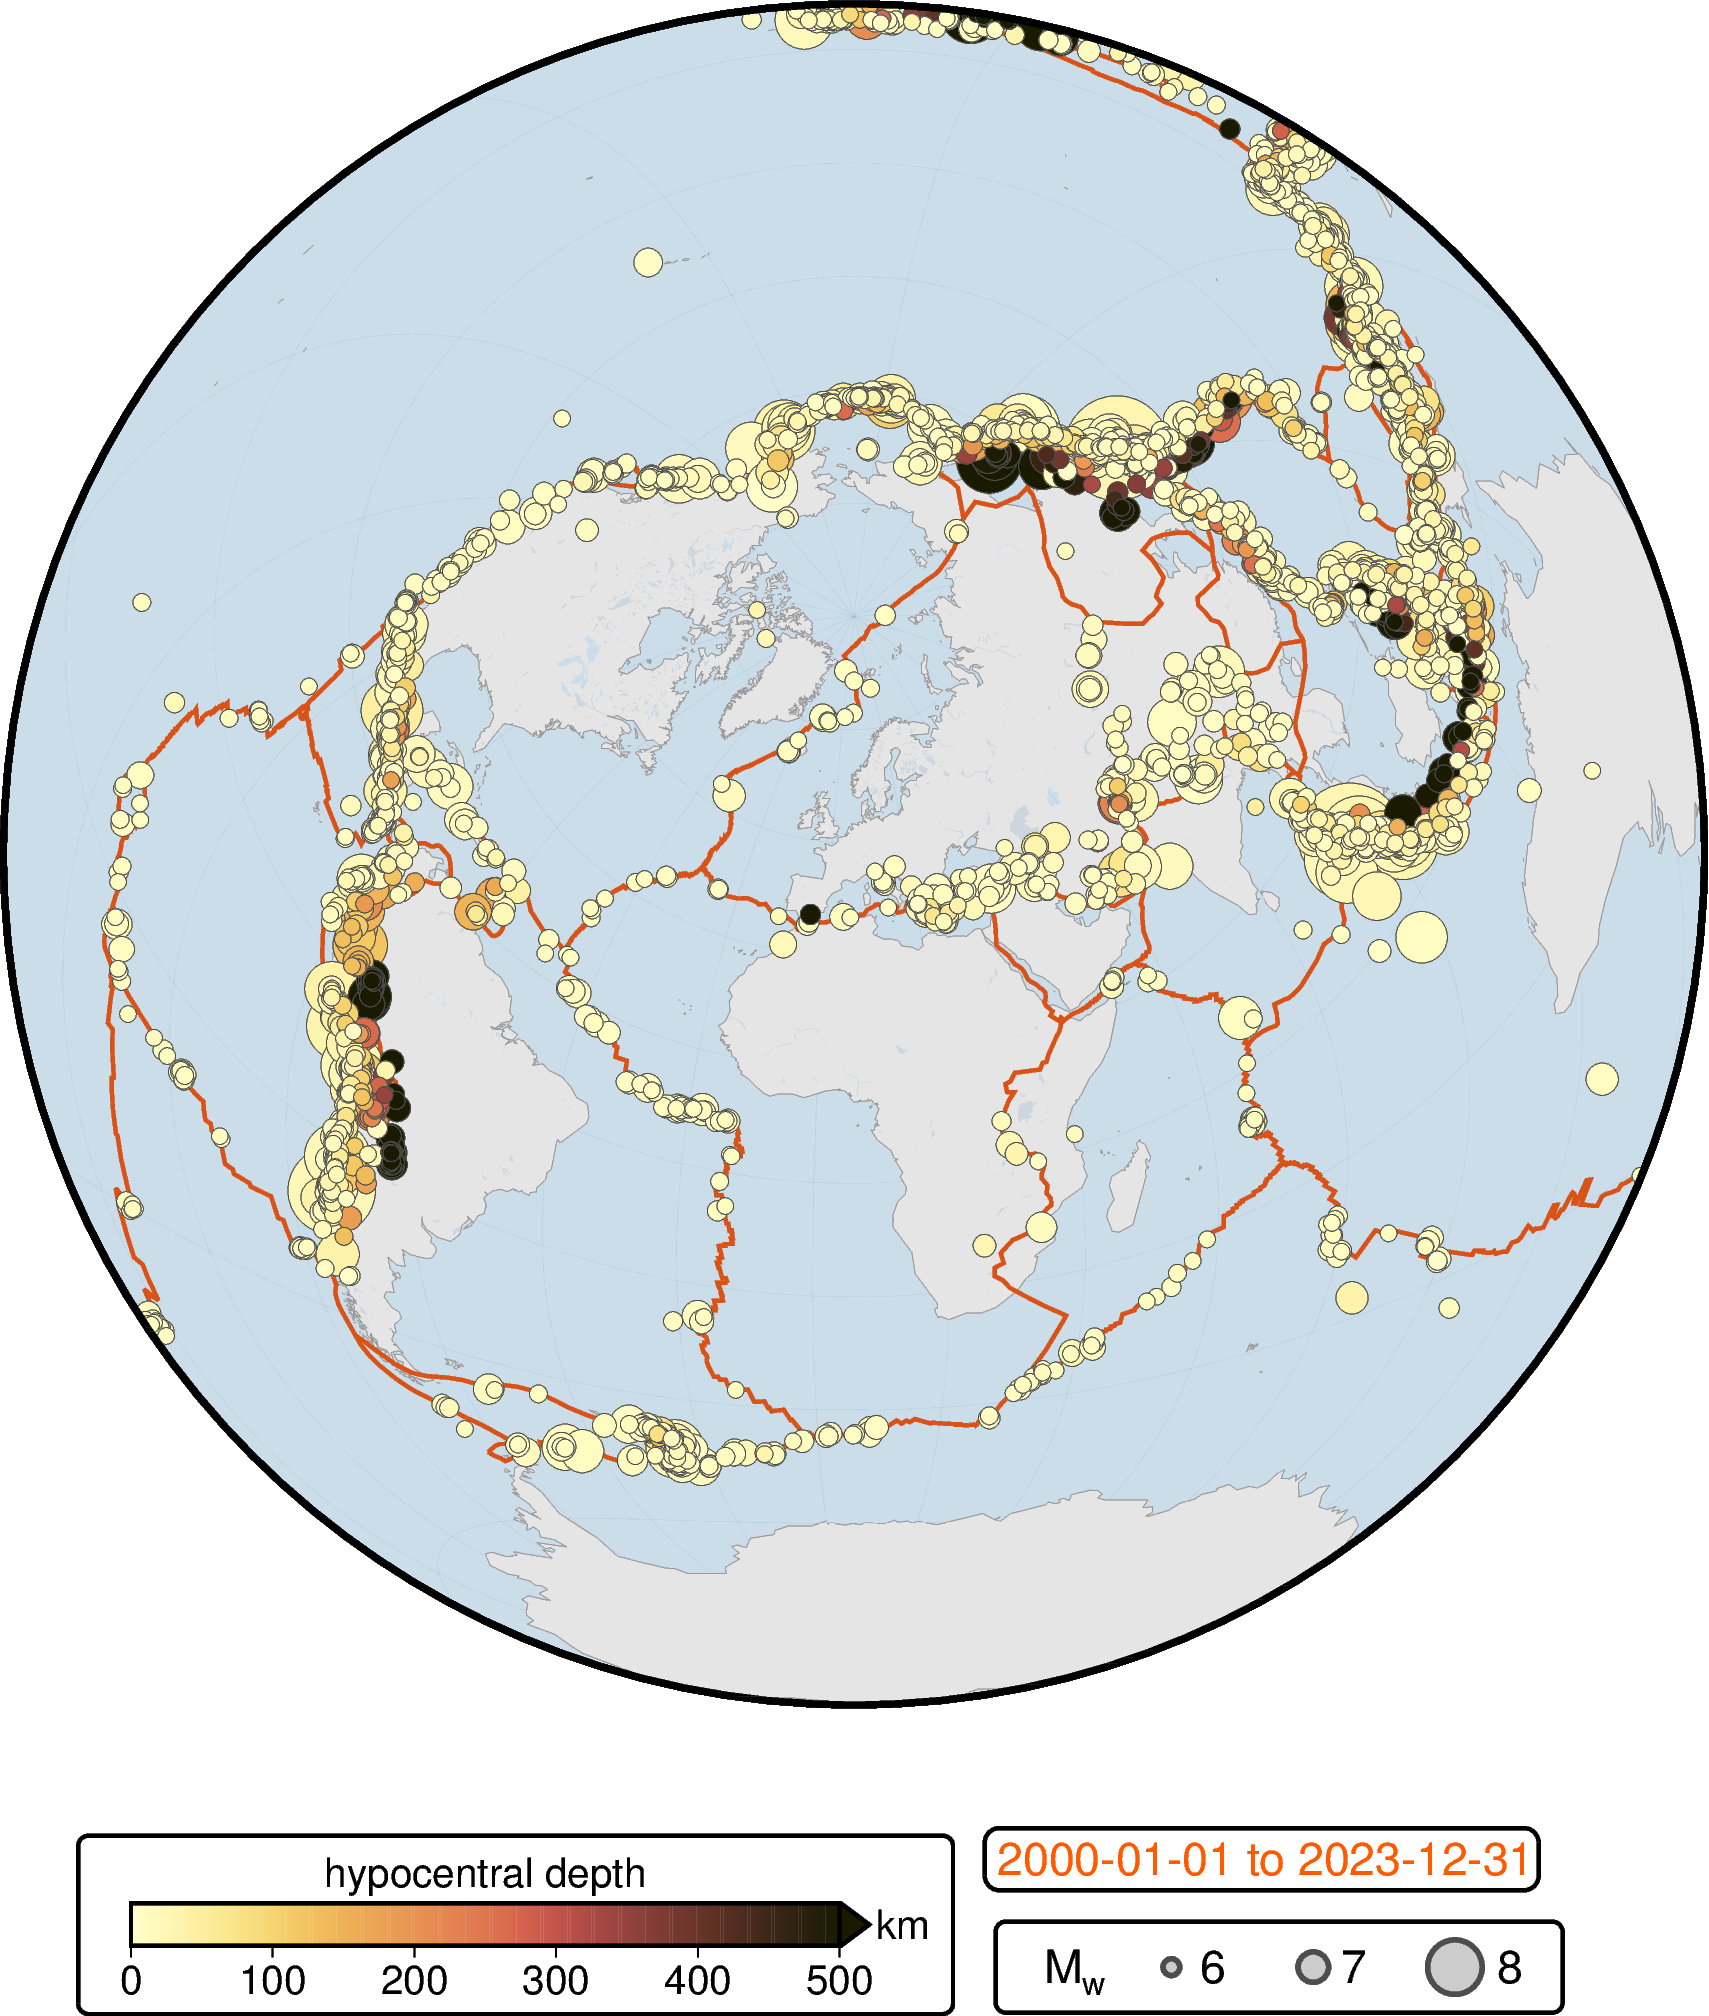
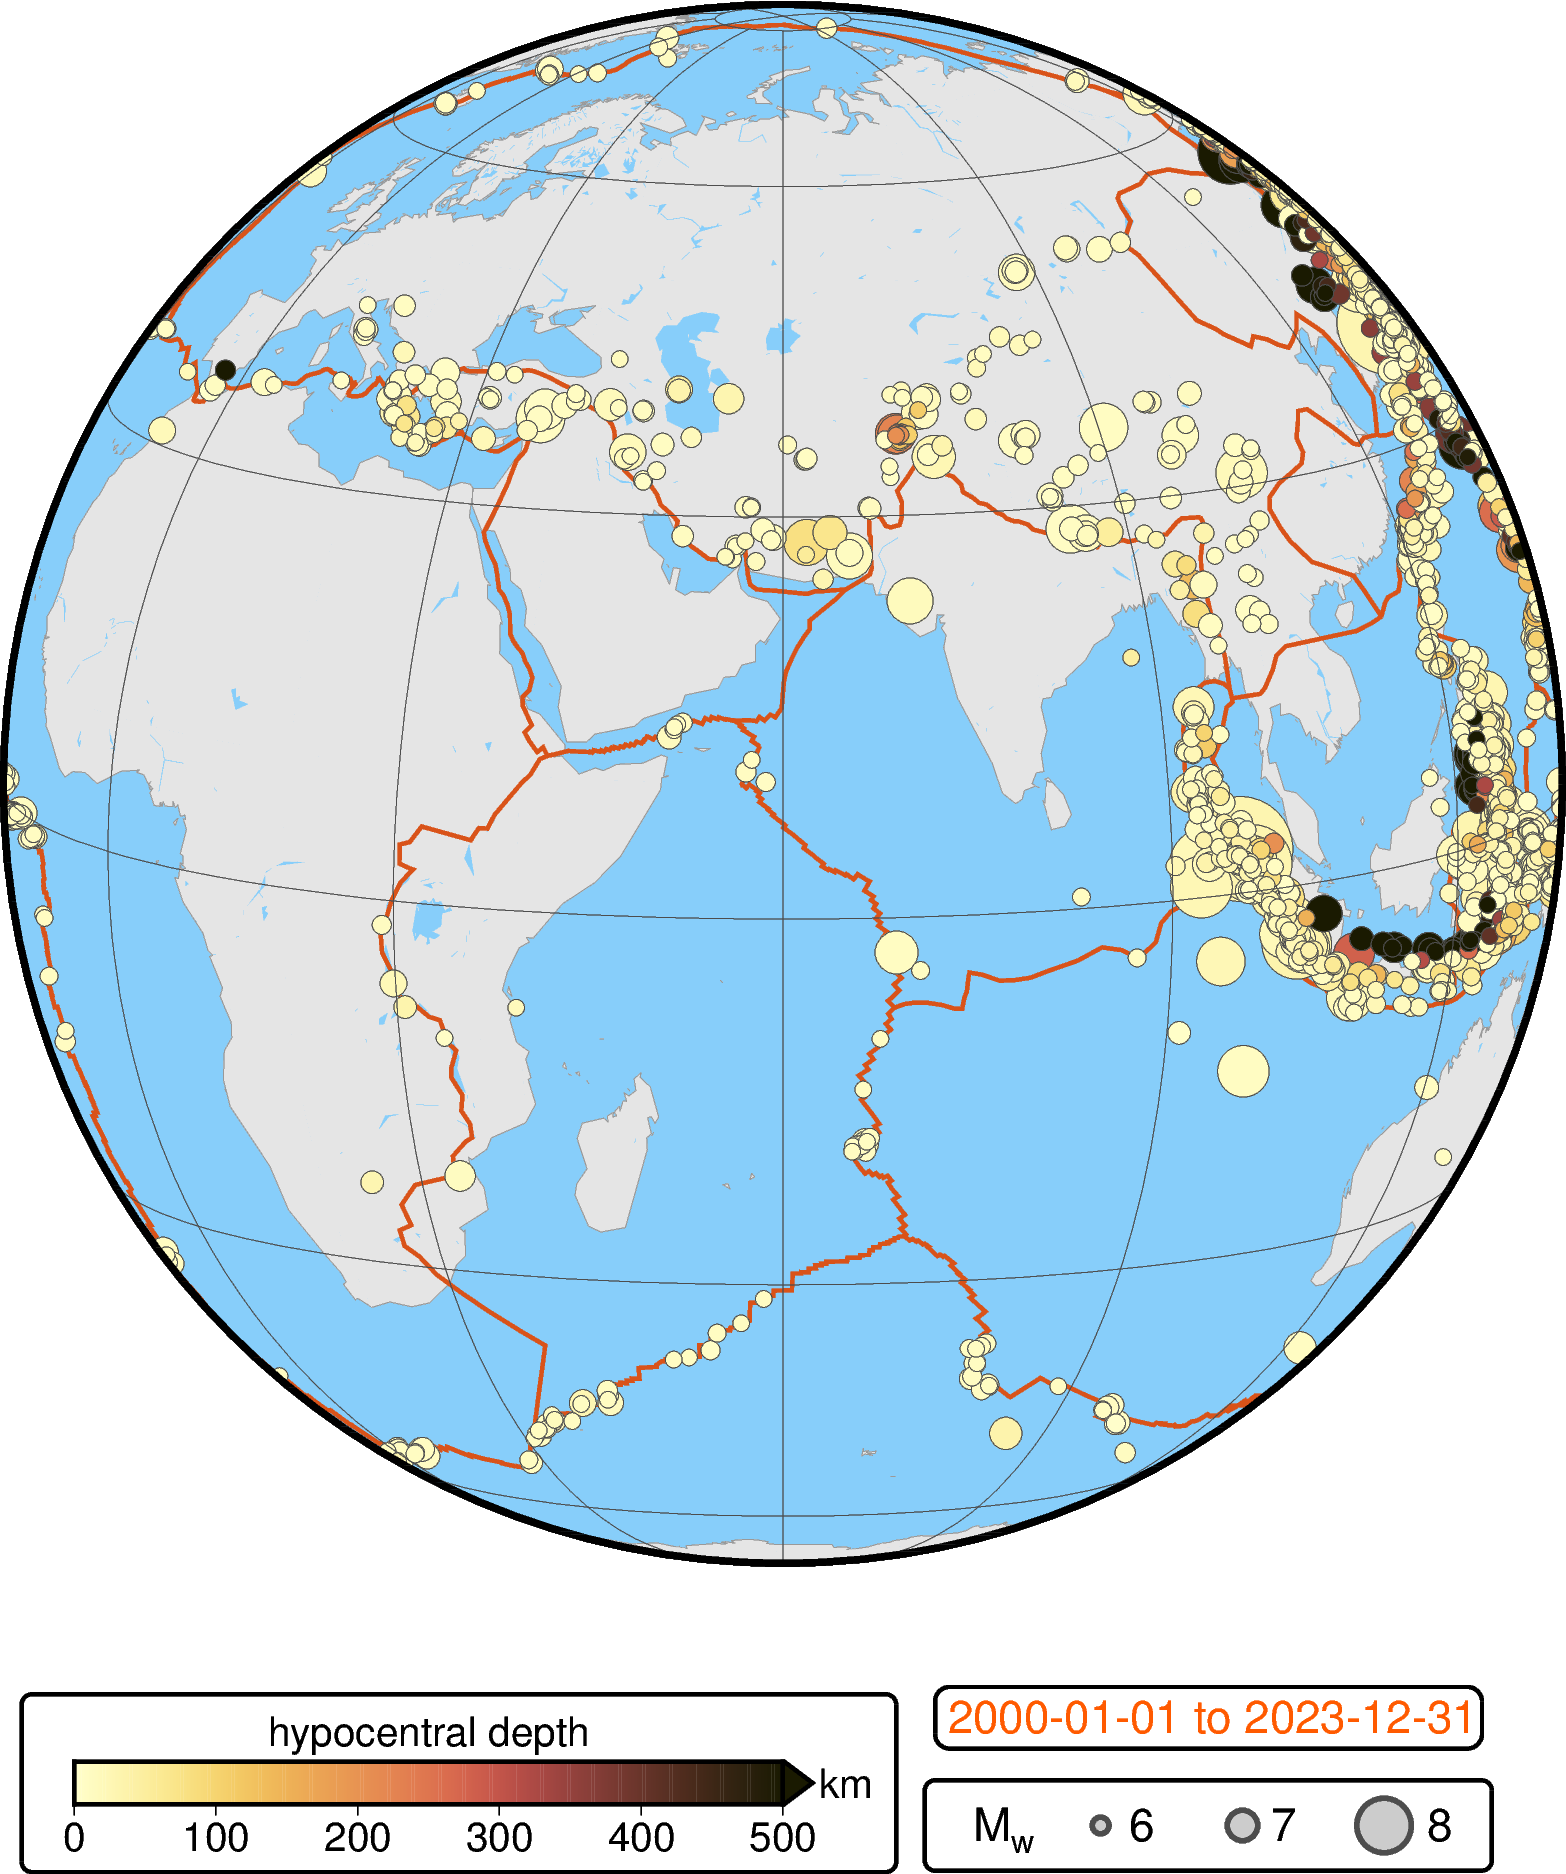
Include orthographic projection

diff --git a/005_global_seismicity/01_map/map_global_seismicity.py b/005_global_seismicity/01_map/map_global_seismicity.py
@@ -35,20 +35,22 @@ import pandas as pd
 # >>> Set for your needs <<<
 
 # Set projection of map
-proj = "rob"  ## "rob", "ortho"
-fig_size = 12
+proj = "ortho"  ## "rob" | "epi" | "ortho"
+fig_size = 11   # in centimeters
+# epicentral distance
 lon_center = 6  # degrees East
 lat_center = 48  # degrees North
 epi_dist = 150  # degrees
+# orthographic
+lon0 = 60  # degrees East
+lat0 = 10  # degrees North
 
 # Request earthquake data
 # >>> Only works with single quotation marks <<<
-start_year = 2000
-end_year = 2023
-start_date = str(start_year) + '-01-01'
-end_date = str(end_year) + '-12-31'
-min_magnitude = '6'
-max_magnitude = '10'
+start_date = '2000-01-01'
+end_date = '2023-12-31'
+min_mag_w = '6'  # magnitude, later filter regarding moment magnitude
+max_mag_w = '10'
 order_records = 'time-asc'  # 'magnitude'
 
 # -----------------------------------------------------------------------------
@@ -61,7 +63,7 @@ file_legend = "legend_gmt_magitude.txt"
 # Plotting
 color_highlight = "255/90/0"
 col_land = "gray90"
-col_water = "steelblue@85"
+col_water = "lightskyblue"
 col_pb = "216.750/82.875/24.990"
 col_sl = "gray60"
 box_standard = "+gwhite@30+p0.8p,black+r2p"
@@ -70,8 +72,13 @@ clearance_standard = "0.1c/0.1c+tO"
 match proj:
     case "rob":
         proj_used = f"N{fig_size}c"
+        frame_used = "af"
+    case "epi":
+        proj_used = f"E{lon_center}/{lat_center}/{epi_dist}/{fig_size}c"
+        frame_used = "af"
     case "ortho":
-        proj_used =f"E{lon_center}/{lat_center}/{epi_dist}/{fig_size}c"
+        proj_used = f"G{lon0}/{lat0}/{fig_size}c"
+        frame_used = "afg"
 
 
 # %%
@@ -80,28 +87,25 @@ match proj:
 # -----------------------------------------------------------------------------
 # Set up request
 # see https://earthquake.usgs.gov/fdsnws/event/1/
-# last access: 2023/11/20
+# last access: 2025/01/26
 url_usgs = 'https://earthquake.usgs.gov/fdsnws/event/1/query.csv'
 
 url_usgs_request = url_usgs + '?' + \
     '&'.join([
         'starttime=' + start_date + '%2000:00:00',
         'endtime=' + end_date + '%2000:00:00',
-        'minmagnitude=' + min_magnitude,
-        'maxmagnitude=' + max_magnitude,
+        'minmagnitude=' + min_mag_w,
+        'maxmagnitude=' + max_mag_w,
         'orderby=' + order_records,
     ])
 
-eq_catalog_name = f"global_seismicity_{start_date}to{end_date}_mw" + \
-                   f"{min_magnitude}to{max_magnitude}"
+eq_catalog_name = f"global_seismicity_{start_date}to{end_date}_mw{min_mag_w}to{max_mag_w}"
 
 # Download data into a pandas DataFrame
 data_eq_raw = pd.read_csv(url_usgs_request)
 
 # Write data to a CSV file
-data_eq_raw.to_csv(
-    index=False, path_or_buf=f"{path_in}/data_{eq_catalog_name}.csv", sep="\t",
-)
+data_eq_raw.to_csv(path_or_buf=f"{path_in}/data_{eq_catalog_name}.csv", sep="\t", index=False)
 
 # Filter data
 # mw, mwc, mwb, mwr, mww
@@ -140,7 +144,7 @@ fig.plot(data=data_eq_used[epi_columns], cmap=True, style="cc", pen="0.01p,gray3
 with pygmt.config(FONT="14p"):
     fig.colorbar(
         frame=["xa100+lhypocentral depth", "y+lkm"],
-        position="JBC+o-2.6c/1.4c+w5c/0.3c+h+ml+ef0.2c",
+        position="JBC+o-2.5c/1.4c+w5c/0.3c+h+ml+ef0.2c",
         box=box_standard,
     )
 
@@ -148,7 +152,8 @@ with pygmt.config(FONT="14p"):
 fig.legend(spec=f"{path_in}{file_legend}", position="JBC+o3c/1.53c+w4c", box=box_standard)
 
 # Plot map frame on top
-fig.basemap(frame="af")
+pygmt.config(MAP_GRID_PEN_PRIMARY="0.01p,gray30")
+fig.basemap(frame=frame_used)
 
 # -----------------------------------------------------------------------------
 # Add label for time period
@@ -156,7 +161,7 @@ fig.text(
     text=f"{start_date} to {end_date}",
     font=color_highlight,
     position="BR",
-    offset="-1.2c/-1.2c",
+    offset="-0.6c/-1.2c",
     pen="0.8p,black",
     clearance=clearance_standard,
     no_clip=True,
@@ -166,7 +171,7 @@ fig.text(
 # Show and save figure
 fig.show()
 fig_name = f"map_{proj}_{eq_catalog_name}"
-# for ext in ["png"]:  # "pdf", "eps"
-#     fig.savefig(fname=f"{path_out}{fig_name}.{ext}", dpi=dpi_png)
+for ext in ["png"]:  # "pdf", "eps"
+    fig.savefig(fname=f"{path_out}{fig_name}.{ext}", dpi=dpi_png)
 
 print(fig_name)
